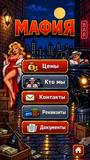
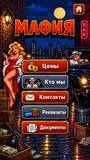
«i» и домик — в правый верхний угол; реквизиты, почта, телефон, ОКПО; раздел о передаче данных без указания местоположения
Claude-Session: https://claude.ai/code/session_01UnDt7ZTyuN8uQJtKJZLQ5E

diff --git a/public/privacy.html b/public/privacy.html
@@ -57,8 +57,8 @@
   <p class="ed">Редакция от 24 октября 2026 года</p>
 
   <h2>1. Кто обрабатывает данные</h2>
-  <p>1.1. Оператор персональных данных — индивидуальный предприниматель Иванова Ирина Владимировна (ИНН 504017256555, ОГРНИП <span class="todo">⟦OGRNIP⟧</span>), далее — «мы». Политика составлена по Федеральному закону от 27.07.2006 № 152-ФЗ «О персональных данных» и действует для сайта <a href="/">https://mafia.friend-e.com</a> и онлайн-игры «Мафия с ИИ» (далее — «Игра»).</p>
-  <p>1.2. По любым вопросам о данных пишите на <a href="mailto:⟦EMAIL⟧"><span class="todo">⟦EMAIL⟧</span></a>.</p>
+  <p>1.1. Оператор персональных данных — индивидуальный предприниматель Иванова Ирина Владимировна (ИНН 504017256555, ОГРНИП 319784700162255), далее — «мы». Политика составлена по Федеральному закону от 27.07.2006 № 152-ФЗ «О персональных данных» и действует для сайта <a href="/">https://mafia.friend-e.com</a> и онлайн-игры «Мафия с ИИ» (далее — «Игра»).</p>
+  <p>1.2. По любым вопросам о данных пишите на <a href="mailto:ebookee.app@gmail.com">ebookee.app@gmail.com</a>.</p>
 
   <h2>2. Какие данные мы обрабатываем</h2>
   <ul>
@@ -86,15 +86,11 @@
   <h2>4. Правовые основания</h2>
   <p>Мы обрабатываем данные на основании твоего согласия, для исполнения договора с тобой (<a href="oferta.html">публичной оферты</a>) и для выполнения требований закона, например о кассовых чеках.</p>
 
-  <h2>5. Кому мы передаём данные</h2>
-  <p>Мы не продаём данные. Передаём только то, без чего Игра не работает:</p>
-  <ul>
-    <li><b>хостинг-провайдеру</b>, на серверах которого работает Игра: <span class="todo">⟦место хранения — решить: сервер сейчас в Германии⟧</span>;</li>
-    <li><b>ЮKassa</b> (ООО НКО «ЮМани») — для приёма платежей и отправки чеков;</li>
-    <li><b>сервисам искусственного интеллекта</b> (OpenRouter и поставщикам языковых моделей, в том числе за рубежом) — текст партии, игровые ники и сообщения, чтобы ИИ-персонажи могли отвечать. Почту, пароль и IP-адрес туда не передаём. Поэтому не пиши в игровом чате свои и чужие личные данные;</li>
-    <li><b>почтовому сервису</b> — для отправки писем;</li>
-    <li>государственным органам — только по законному требованию.</li>
-  </ul>
+  <h2>5. Передача данных</h2>
+  <p>5.1. Мы не продаём, не публикуем и не передаём твои персональные данные третьим лицам, кроме случаев, без которых Игра не может работать, и случаев, прямо предусмотренных законом.</p>
+  <p>5.2. Оплату проводит ЮKassa (ООО НКО «ЮМани»): данные карты ты вводишь на её защищённой странице, к нам они не попадают.</p>
+  <p>5.3. Чтобы ИИ-персонажи могли отвечать, текст партии — игровые ники и сообщения — обрабатывается сервисами искусственного интеллекта. Почта, пароль и IP-адрес при этом не используются. Поэтому не пиши в игровом чате свои и чужие личные данные.</p>
+  <p>5.4. Данные хранятся на защищённых серверах, доступ к ним есть только у оператора. Сведения раскрываются государственным органам только по законному требованию.</p>
 
   <h2>6. Как долго храним</h2>
   <p>6.1. Данные Аккаунта и игровые данные — пока существует Аккаунт.</p>
@@ -102,7 +98,7 @@
   <p>6.3. Сведения о платежах храним столько, сколько требует налоговое и бухгалтерское законодательство.</p>
 
   <h2>7. Твои права</h2>
-  <p>Ты можешь узнать, какие данные о тебе хранятся, исправить их, потребовать удаления Аккаунта и данных, отозвать согласие на обработку и на рассылки. Напиши на <a href="mailto:⟦EMAIL⟧"><span class="todo">⟦EMAIL⟧</span></a> с почты Аккаунта — ответим в течение 10 рабочих дней. Ты также вправе обратиться в Роскомнадзор.</p>
+  <p>Ты можешь узнать, какие данные о тебе хранятся, исправить их, потребовать удаления Аккаунта и данных, отозвать согласие на обработку и на рассылки. Напиши на <a href="mailto:ebookee.app@gmail.com">ebookee.app@gmail.com</a> с почты Аккаунта — ответим в течение 10 рабочих дней. Ты также вправе обратиться в Роскомнадзор.</p>
 
   <h2>8. Как мы защищаем данные</h2>
   <ul>
@@ -124,9 +120,9 @@
   <h2>12. Контакты оператора</h2>
   <div class="req">
     Индивидуальный предприниматель Иванова Ирина Владимировна<br>
-    ИНН 504017256555, ОГРНИП <span class="todo">⟦OGRNIP⟧</span><br>
-    Почта: <a href="mailto:⟦EMAIL⟧"><span class="todo">⟦EMAIL⟧</span></a><br>
-    Телефон: <a href="tel:⟦PHONE⟧"><span class="todo">⟦PHONE⟧</span></a>
+    ИНН 504017256555, ОГРНИП 319784700162255<br>
+    Почта: <a href="mailto:ebookee.app@gmail.com">ebookee.app@gmail.com</a><br>
+    Телефон: <a href="tel:+79150888833">+7 915 088-88-33</a>
   </div>
 </article>
 <footer><a href="info.html">Информация</a><a href="info.html#prices">Цены</a><a href="oferta.html">Оферта</a><a href="/">Играть</a></footer>

diff --git a/public/info.html b/public/info.html
@@ -45,9 +45,9 @@
       "taxID": "504017256555",
       "url": "https://mafia.friend-e.com/",
       "logo": "https://mafia.friend-e.com/img/btn-info.png",
-      "email": "⟦EMAIL⟧",
-      "telephone": "⟦PHONE⟧",
-      "contactPoint": { "@type": "ContactPoint", "contactType": "customer support", "email": "⟦EMAIL⟧", "telephone": "⟦PHONE⟧", "availableLanguage": "ru" }
+      "email": "ebookee.app@gmail.com",
+      "telephone": "+7 915 088-88-33",
+      "contactPoint": { "@type": "ContactPoint", "contactType": "customer support", "email": "ebookee.app@gmail.com", "telephone": "+7 915 088-88-33", "availableLanguage": "ru" }
     },
     {
       "@type": "WebSite",
@@ -138,7 +138,7 @@
   .hot-contacts{top:56.8%;height:8.1%}
   .hot-requis  {top:65.9%;height:8.6%}
   .hot-docs    {top:75.6%;height:8.1%}
-  .hot-home{left:81%;top:90.4%;width:12.2%;height:7%}
+  .hot-home{left:81.4%;top:2.4%;width:12.4%;height:7.2%}
 
   /* ── окна: открываются по якорю (#prices и т.д.) — работают даже без скриптов,
         на них можно дать прямую ссылку, «Назад» в браузере закрывает ── */
@@ -283,8 +283,8 @@
       <a class="close" href="#" aria-label="Закрыть">✕</a>
       <h2 class="pixel" id="h-contacts">Контакты</h2>
       <dl>
-        <dt>Почта</dt>   <dd><a href="mailto:⟦EMAIL⟧"><span class="todo">⟦EMAIL⟧</span></a></dd>
-        <dt>Телефон</dt> <dd><a href="tel:⟦PHONE⟧"><span class="todo">⟦PHONE⟧</span></a></dd>
+        <dt>Почта</dt>   <dd><a href="mailto:ebookee.app@gmail.com">ebookee.app@gmail.com</a></dd>
+        <dt>Телефон</dt> <dd><a href="tel:+79150888833">+7 915 088-88-33</a></dd>
         <dt>Сайт</dt>    <dd><a href="/">mafia.friend-e.com</a></dd>
       </dl>
       <p style="margin-top:14px">Пиши по оплате, VIP, щитам, возвратам, ошибкам в игре и с идеями. Отвечаем в течение 1–2 рабочих дней. В письме про оплату укажи почту, на которую зарегистрирован аккаунт.</p>
@@ -300,9 +300,10 @@
       <dl>
         <dt>Исполнитель</dt> <dd>Индивидуальный предприниматель Иванова Ирина Владимировна</dd>
         <dt>ИНН</dt>         <dd>504017256555</dd>
-        <dt>ОГРНИП</dt>      <dd><span class="todo">⟦OGRNIP⟧</span></dd>
-        <dt>Почта</dt>       <dd><a href="mailto:⟦EMAIL⟧"><span class="todo">⟦EMAIL⟧</span></a></dd>
-        <dt>Телефон</dt>     <dd><a href="tel:⟦PHONE⟧"><span class="todo">⟦PHONE⟧</span></a></dd>
+        <dt>ОГРНИП</dt>      <dd>319784700162255</dd>
+        <dt>ОКПО</dt>        <dd>0155181327</dd>
+        <dt>Почта</dt>       <dd><a href="mailto:ebookee.app@gmail.com">ebookee.app@gmail.com</a></dd>
+        <dt>Телефон</dt>     <dd><a href="tel:+79150888833">+7 915 088-88-33</a></dd>
       </dl>
       <p style="margin-top:14px">Платежи принимает ЮKassa (ООО НКО «ЮМани»).</p>
     </div>

diff --git a/public/oferta.html b/public/oferta.html
@@ -57,7 +57,7 @@
   <p class="ed">Редакция от 24 октября 2026 года</p>
 
   <h2>1. Общие положения</h2>
-  <p>1.1. Индивидуальный предприниматель Иванова Ирина Владимировна (ИНН 504017256555, ОГРНИП <span class="todo">⟦OGRNIP⟧</span>), далее — «Исполнитель», предлагает любому дееспособному лицу, достигшему 18 лет, далее — «Пользователь», заключить договор на условиях этой оферты. Это публичная оферта в смысле статей 435 и 437 Гражданского кодекса РФ.</p>
+  <p>1.1. Индивидуальный предприниматель Иванова Ирина Владимировна (ИНН 504017256555, ОГРНИП 319784700162255), далее — «Исполнитель», предлагает любому дееспособному лицу, достигшему 18 лет, далее — «Пользователь», заключить договор на условиях этой оферты. Это публичная оферта в смысле статей 435 и 437 Гражданского кодекса РФ.</p>
   <p>1.2. Полным и безоговорочным принятием (акцептом) оферты считается оплата VIP-статуса или щитов (пункт 3 статьи 438 ГК РФ). Пользуясь бесплатной частью Игры, Пользователь соглашается с разделами 5–9 оферты.</p>
   <p>1.3. Страница <a href="info.html#prices">«Цены»</a> и <a href="privacy.html">Политика конфиденциальности</a> являются неотъемлемыми частями оферты.</p>
 
@@ -122,9 +122,10 @@
   <div class="req">
     Индивидуальный предприниматель Иванова Ирина Владимировна<br>
     ИНН 504017256555<br>
-    ОГРНИП <span class="todo">⟦OGRNIP⟧</span><br>
-    Почта: <a href="mailto:⟦EMAIL⟧"><span class="todo">⟦EMAIL⟧</span></a><br>
-    Телефон: <a href="tel:⟦PHONE⟧"><span class="todo">⟦PHONE⟧</span></a><br>
+    ОГРНИП 319784700162255<br>
+    ОКПО 0155181327<br>
+    Почта: <a href="mailto:ebookee.app@gmail.com">ebookee.app@gmail.com</a><br>
+    Телефон: <a href="tel:+79150888833">+7 915 088-88-33</a><br>
     Сайт: <a href="/">https://mafia.friend-e.com</a>
   </div>
 </article>

diff --git a/public/auth.html b/public/auth.html
@@ -57,8 +57,8 @@
   }
   .hot-login{left:21.5%;top:77.9%;width:57%;height:7.8%}
   .hot-rules{left:21.8%;top:86.7%;width:56.3%;height:6.6%}
-  /* кнопка «i» в правом нижнем углу — ведёт на страницу с ценами, контактами и документами */
-  .info-btn{position:absolute;left:81%;top:90.4%;width:12.2%;z-index:2;display:block;border-radius:8px;
+  /* кнопка «i» в правом верхнем углу, на уровне 18+ — ведёт на страницу с ценами, контактами и документами */
+  .info-btn{position:absolute;left:87%;top:2%;width:11%;z-index:2;display:block;border-radius:8px;
     -webkit-tap-highlight-color:transparent;transition:filter .12s, transform .08s}
   .info-btn img{width:100%;height:auto}
   .info-btn:hover{filter:brightness(1.12) drop-shadow(0 0 10px rgba(255,200,80,.55))}
